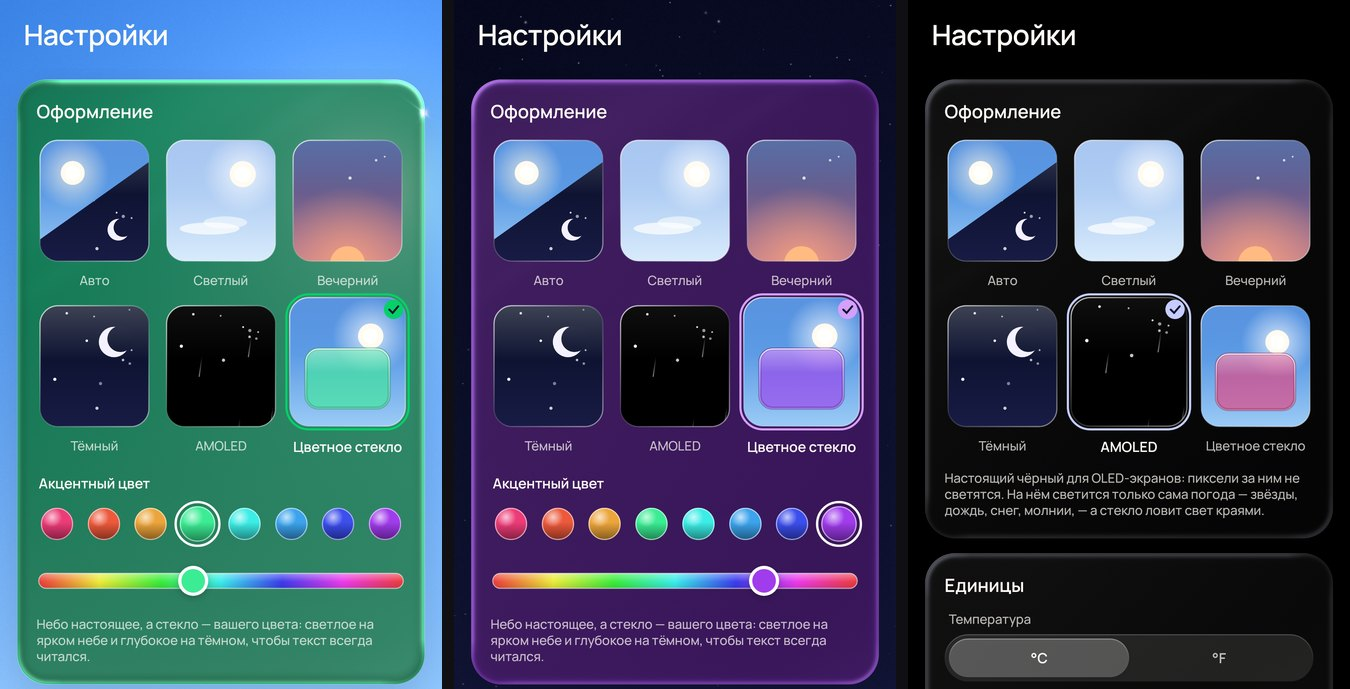
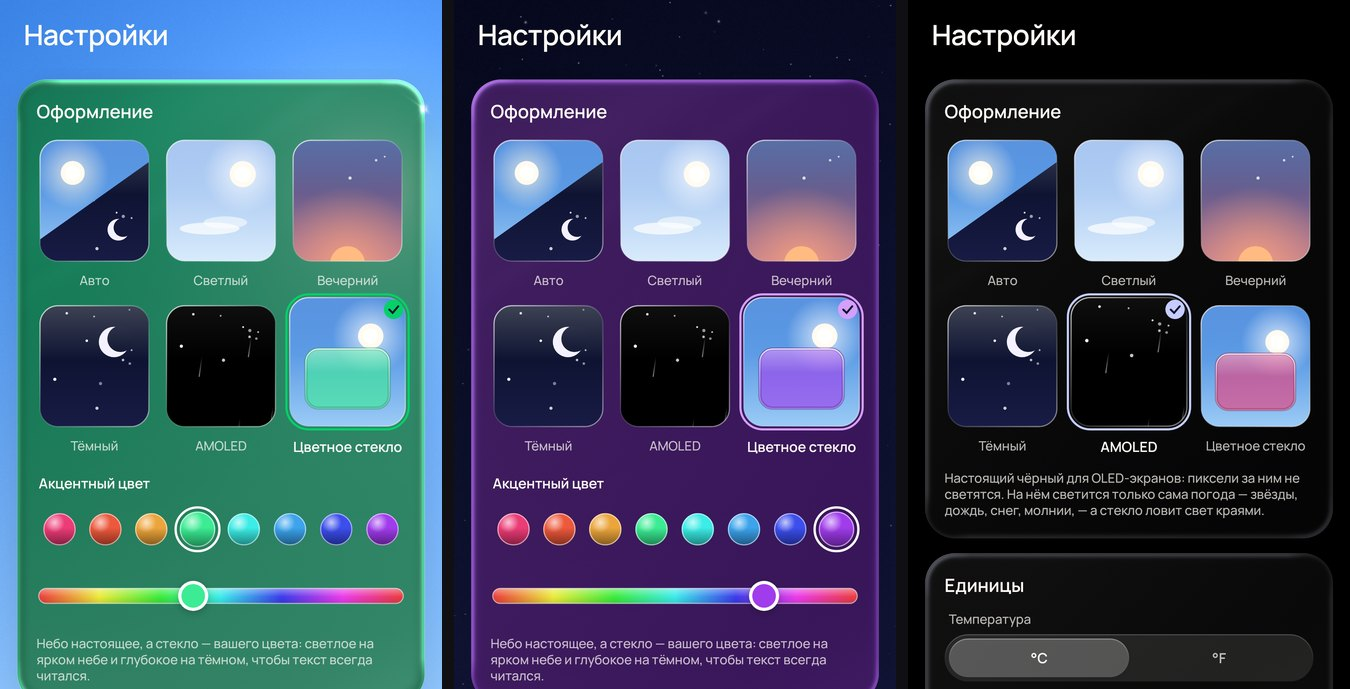
README: the hue strip in motion, the picker at its final size
A film of the finger sliding the strip from rose to mint, the pane
following, rendered by ThemePickerTest.film (-Prosa.docs), and the
picker image redrawn with the beads and strip at their 48 dp touch
size.

Claude-Session: https://claude.ai/code/session_014VsCMqPGtS92FpaWDiRjsh

Changed region(s): [[0.0, 0.7315, 0.6533, 1.0], [0.3422, 0.7315, 0.6533, 0.7925], [0.3111, 0.1524, 0.3422, 0.1829]]

diff --git a/rosa-weather/README.md b/rosa-weather/README.md
@@ -84,11 +84,19 @@ Android-приложение погоды для Android 13–17 (target/compile
 
 <img src="docs/images/theme-picker.jpg" width="100%" />
 
+<img src="docs/images/theme-hue.gif" width="340" align="right" />
+
+Палец ведёт ручку по спектру от розы к мяте, и вся панель перетекает за ним. Цвет сохраняется
+не чаще раза в 90 мс, а при отпускании — ровно там, где остановился палец. Тест проверяет это
+настоящими касаниями, а TalkBack задаёт оттенок числом, без протяжки.
+
 Обе темы — в «Настройки → Оформление», рядом с прежними четырьмя, плиток теперь шесть. Переключение
 плавное: небо гаснет до чёрного, стекло перетекает в цвет. Прежние темы не изменились: главные
 экраны, «Места» и прокрутка совпадают с 2.6.1 пиксель в пиксель. Значки часов и батареи в строке
 состояния теперь следуют за небом, а не за темой системы. На чёрном и ночном небе они светлые,
 даже если в системе включена светлая тема.
+
+<br clear="right" />
 
 ### Панель вкладок внизу
 
